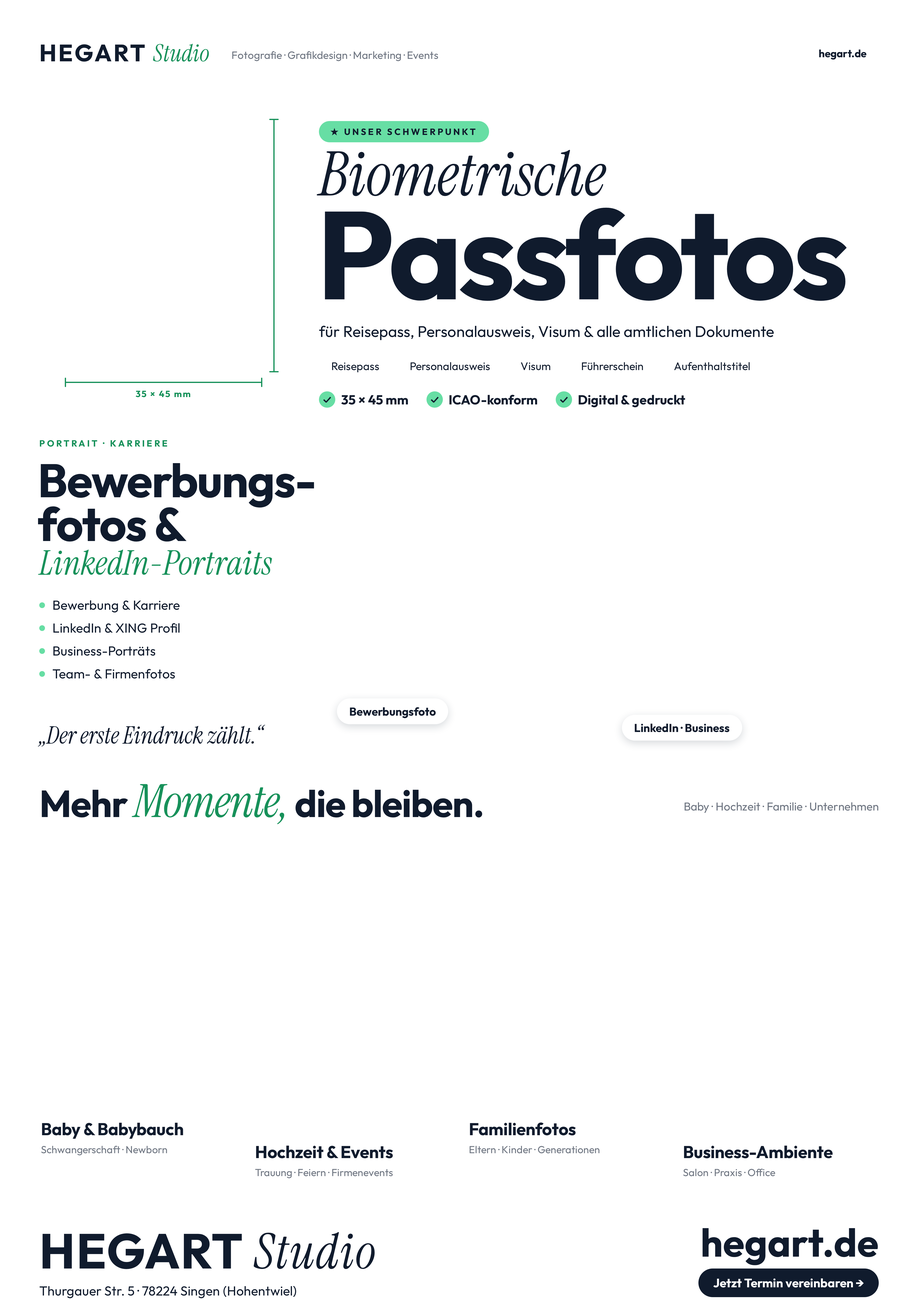
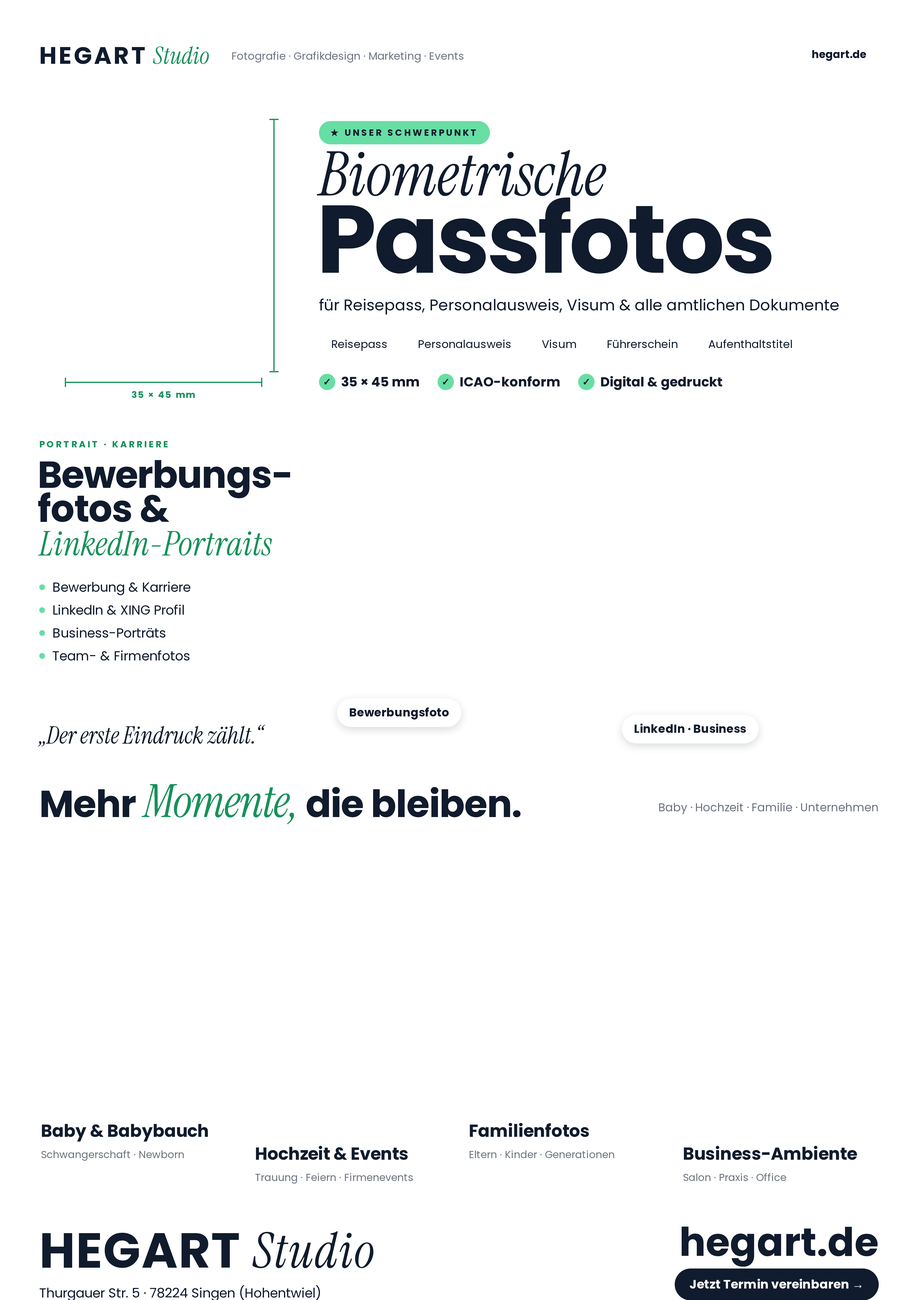
Editable Canva poster: Poppins font, one text box per line, photo mats
Claude-Session: https://claude.ai/code/session_01PXe1ai8QN5UNyAUih2Q6bs

diff --git a/poster/canva-editable.html b/poster/canva-editable.html
@@ -1,7 +1,6 @@
 <!DOCTYPE html>
 <html lang="de"><head><meta charset="utf-8"><title>Hegart Studio Poster A1 editierbar</title>
-<link rel="preconnect" href="https://fonts.googleapis.com">
-<link href="https://fonts.googleapis.com/css2?family=Instrument+Serif:ital@0;1&family=Outfit:wght@400;700&display=swap" rel="stylesheet">
+<link href="https://fonts.googleapis.com/css2?family=Instrument+Serif:ital@0;1&family=Poppins:wght@400;700&display=swap" rel="stylesheet">
 <style>html,body{margin:0}.page{position:relative;width:2245px;height:3179px;overflow:hidden;background:#F8F7F2}</style>
 </head><body>
 <div class="page" data-document-role="page" data-label="Hegart Studio A1">
@@ -17,6 +16,13 @@
 <div data-label="Kachel 4" style="position:absolute;left:1687.8px;top:2128.0px;width:483.2px;height:640.0px;background:#E6EFE4;border-radius:40px"></div>
 <div data-label="Footer" style="position:absolute;left:0.0px;top:2940.0px;width:2245.0px;height:239.0px;background:#67DEA4;border-radius:0px"></div>
 <div data-label="Kreis Footer" style="position:absolute;left:934.8px;top:2939.0px;width:600.0px;height:600.0px;background:#86E6B8;border-radius:50%"></div>
+<div data-label="Rahmen" style="position:absolute;left:151.0px;top:283.0px;width:498.0px;height:635.0px;background:#FFFFFF;border-radius:35px"></div>
+<div data-label="Rahmen" style="position:absolute;left:787.0px;top:1051.0px;width:674.5px;height:758.0px;background:#FFFFFF;border-radius:53px"></div>
+<div data-label="Rahmen" style="position:absolute;left:1483.5px;top:1091.0px;width:674.5px;height:758.0px;background:#FFFFFF;border-radius:53px"></div>
+<div data-label="Rahmen" style="position:absolute;left:87.0px;top:2041.0px;width:501.2px;height:658.0px;background:#FFFFFF;border-radius:49px"></div>
+<div data-label="Rahmen" style="position:absolute;left:610.2px;top:2097.0px;width:501.2px;height:658.0px;background:#FFFFFF;border-radius:49px"></div>
+<div data-label="Rahmen" style="position:absolute;left:1133.5px;top:2041.0px;width:501.2px;height:658.0px;background:#FFFFFF;border-radius:49px"></div>
+<div data-label="Rahmen" style="position:absolute;left:1656.8px;top:2097.0px;width:501.2px;height:658.0px;background:#FFFFFF;border-radius:49px"></div>
 <div data-label="Foto Passfoto" style="position:absolute;left:160.0px;top:292.0px;width:480.0px;height:617.0px;background:#B9B2A9;border-radius:26px"></div>
 <div data-label="Foto Bewerbungsfoto" style="position:absolute;left:796.0px;top:1060.0px;width:656.5px;height:740.0px;background:#B9B2A9;border-radius:44px"></div>
 <div data-label="Foto LinkedIn" style="position:absolute;left:1492.5px;top:1100.0px;width:656.5px;height:740.0px;background:#B9B2A9;border-radius:44px"></div>
@@ -24,74 +30,75 @@
 <div data-label="Foto Hochzeit" style="position:absolute;left:619.2px;top:2106.0px;width:483.2px;height:640.0px;background:#B9B2A9;border-radius:40px"></div>
 <div data-label="Foto Familie" style="position:absolute;left:1142.5px;top:2050.0px;width:483.2px;height:640.0px;background:#B9B2A9;border-radius:40px"></div>
 <div data-label="Foto Business-Ambiente" style="position:absolute;left:1665.8px;top:2106.0px;width:483.2px;height:640.0px;background:#B9B2A9;border-radius:40px"></div>
-<div data-label="Maßlinie" style="position:absolute;left:668.5px;top:292.0px;width:3.0px;height:617.0px;background:#17915A;border-radius:2px"></div>
+<div data-label="" style="position:absolute;left:668.5px;top:292.0px;width:3.0px;height:617.0px;background:#17915A;border-radius:2px"></div>
 <div data-label="" style="position:absolute;left:660.0px;top:290.5px;width:20.0px;height:3.0px;background:#17915A;border-radius:2px"></div>
 <div data-label="" style="position:absolute;left:660.0px;top:907.5px;width:20.0px;height:3.0px;background:#17915A;border-radius:2px"></div>
-<div data-label="Maßlinie" style="position:absolute;left:160.0px;top:933.5px;width:480.0px;height:3.0px;background:#17915A;border-radius:2px"></div>
+<div data-label="" style="position:absolute;left:160.0px;top:933.5px;width:480.0px;height:3.0px;background:#17915A;border-radius:2px"></div>
 <div data-label="" style="position:absolute;left:158.5px;top:925.0px;width:3.0px;height:20.0px;background:#17915A;border-radius:2px"></div>
 <div data-label="" style="position:absolute;left:638.5px;top:925.0px;width:3.0px;height:20.0px;background:#17915A;border-radius:2px"></div>
-<div data-label="Rahmen" style="position:absolute;left:149.0px;top:281.0px;width:502.0px;height:639.0px;border:8px solid #FFFFFF;border-radius:37px;box-sizing:border-box"></div>
-<div data-label="Rahmen" style="position:absolute;left:785.0px;top:1049.0px;width:678.5px;height:762.0px;border:8px solid #FFFFFF;border-radius:55px;box-sizing:border-box"></div>
-<div data-label="Rahmen" style="position:absolute;left:1481.5px;top:1089.0px;width:678.5px;height:762.0px;border:8px solid #FFFFFF;border-radius:55px;box-sizing:border-box"></div>
-<div data-label="Rahmen" style="position:absolute;left:85.0px;top:2039.0px;width:505.2px;height:662.0px;border:8px solid #FFFFFF;border-radius:51px;box-sizing:border-box"></div>
-<div data-label="Rahmen" style="position:absolute;left:608.2px;top:2095.0px;width:505.2px;height:662.0px;border:8px solid #FFFFFF;border-radius:51px;box-sizing:border-box"></div>
-<div data-label="Rahmen" style="position:absolute;left:1131.5px;top:2039.0px;width:505.2px;height:662.0px;border:8px solid #FFFFFF;border-radius:51px;box-sizing:border-box"></div>
-<div data-label="Rahmen" style="position:absolute;left:1654.8px;top:2095.0px;width:505.2px;height:662.0px;border:8px solid #FFFFFF;border-radius:51px;box-sizing:border-box"></div>
-<div data-label="" style="position:absolute;left:1972.0px;top:100.0px;width:177.0px;height:61.0px;background:rgb(255, 255, 255);border-radius:999px"></div>
-<div data-label="" style="position:absolute;left:780.0px;top:296.0px;width:416.0px;height:52.0px;background:rgb(103, 222, 164);border-radius:999px"></div>
-<div data-label="" style="position:absolute;left:780.0px;top:864.0px;width:178.0px;height:62.0px;background:rgb(255, 255, 255);border-radius:999px"></div>
-<div data-label="" style="position:absolute;left:972.0px;top:864.0px;width:257.0px;height:62.0px;background:rgb(255, 255, 255);border-radius:999px"></div>
-<div data-label="" style="position:absolute;left:1243.0px;top:864.0px;width:134.0px;height:62.0px;background:rgb(255, 255, 255);border-radius:999px"></div>
-<div data-label="" style="position:absolute;left:1391.0px;top:864.0px;width:213.0px;height:62.0px;background:rgb(255, 255, 255);border-radius:999px"></div>
-<div data-label="" style="position:absolute;left:1618.0px;top:864.0px;width:247.0px;height:62.0px;background:rgb(255, 255, 255);border-radius:999px"></div>
-<div data-label="" style="position:absolute;left:780.0px;top:957.0px;width:40.0px;height:40.0px;background:rgb(103, 222, 164);border-radius:50%"></div>
-<div data-label="" style="position:absolute;left:1043.0px;top:957.0px;width:40.0px;height:40.0px;background:rgb(103, 222, 164);border-radius:50%"></div>
-<div data-label="" style="position:absolute;left:1359.0px;top:957.0px;width:40.0px;height:40.0px;background:rgb(103, 222, 164);border-radius:50%"></div>
-<div data-label="" style="position:absolute;left:96.0px;top:1472.7px;width:14.0px;height:14.0px;background:rgb(103, 222, 164);border-radius:50%"></div>
-<div data-label="" style="position:absolute;left:96.0px;top:1528.7px;width:14.0px;height:14.0px;background:rgb(103, 222, 164);border-radius:50%"></div>
-<div data-label="" style="position:absolute;left:96.0px;top:1584.7px;width:14.0px;height:14.0px;background:rgb(103, 222, 164);border-radius:50%"></div>
-<div data-label="" style="position:absolute;left:96.0px;top:1640.7px;width:14.0px;height:14.0px;background:rgb(103, 222, 164);border-radius:50%"></div>
-<div data-label="" style="position:absolute;left:824.0px;top:1708.0px;width:272.0px;height:63.0px;background:rgb(255, 255, 255);border-radius:999px"></div>
-<div data-label="" style="position:absolute;left:1520.5px;top:1748.0px;width:294.0px;height:63.0px;background:rgb(255, 255, 255);border-radius:999px"></div>
-<div data-label="" style="position:absolute;left:1708.0px;top:3102.0px;width:441.0px;height:70.0px;background:rgb(16, 27, 45);border-radius:999px"></div>
-<div style="position:absolute;left:96.0px;top:92.0px;width:446.8px;white-space:nowrap;text-align:left;font-family:'Outfit', sans-serif;font-size:16px;font-weight:400;font-style:normal;color:rgb(16, 27, 45);letter-spacing:normal;line-height:normal;margin:0"><span style="font-weight:700;font-size:58px;letter-spacing:0.08em;font-family:'Outfit', sans-serif;font-size:58px;font-weight:700;font-style:normal;color:rgb(16, 27, 45);letter-spacing:4.64px;text-transform:none;line-height:normal">HEGART</span><span style="font-size:58px;margin-left:14px;font-family:'Instrument Serif', serif;font-size:58px;font-weight:400;font-style:italic;color:rgb(23, 145, 90);letter-spacing:normal;text-transform:none;line-height:normal">Studio</span></div>
-<div style="position:absolute;left:566.0px;top:118.0px;width:542.4px;white-space:nowrap;text-align:left;font-family:'Outfit', sans-serif;font-size:26px;font-weight:400;font-style:normal;color:rgb(110, 117, 129);letter-spacing:normal;line-height:normal;margin:0">Fotografie · Grafikdesign · Marketing · Events</div>
-<div style="position:absolute;left:2002.0px;top:114.0px;width:130.0px;white-space:nowrap;text-align:left;font-family:'Outfit', sans-serif;font-size:26px;font-weight:700;font-style:normal;color:rgb(16, 27, 45);letter-spacing:normal;line-height:normal;margin:0">hegart.de</div>
-<div style="position:absolute;left:331.3px;top:949.0px;width:151.7px;white-space:nowrap;text-align:left;font-family:'Outfit', sans-serif;font-size:22px;font-weight:700;font-style:normal;color:rgb(23, 145, 90);letter-spacing:2.64px;line-height:normal;margin:0">35 × 45 mm</div>
-<div style="position:absolute;left:808.0px;top:308.0px;width:387.6px;white-space:nowrap;text-align:left;font-family:'Outfit', sans-serif;font-size:22px;font-weight:700;font-style:normal;color:rgb(16, 27, 45);letter-spacing:4.84px;line-height:normal;margin:0">★ UNSER SCHWERPUNKT</div>
-<div style="position:absolute;left:780.0px;top:352.0px;width:749.1px;white-space:nowrap;text-align:left;font-family:'Instrument Serif', serif;font-size:150px;font-weight:400;font-style:italic;color:rgb(16, 27, 45);letter-spacing:normal;line-height:150px;margin:0">Biometrische</div>
-<div style="position:absolute;left:774.0px;top:468.0px;width:1376.5px;white-space:nowrap;text-align:left;font-family:'Outfit', sans-serif;font-size:304.035px;font-weight:700;font-style:normal;color:rgb(16, 27, 45);letter-spacing:-9.12106px;line-height:304.035px;margin:0">Passfotos</div>
-<div style="position:absolute;left:780.0px;top:786.0px;width:1185.8px;white-space:nowrap;text-align:left;font-family:'Outfit', sans-serif;font-size:38px;font-weight:400;font-style:normal;color:rgb(16, 27, 45);letter-spacing:normal;line-height:normal;margin:0">für Reisepass, Personalausweis, Visum &amp; alle amtlichen Dokumente</div>
-<div style="position:absolute;left:810.0px;top:878.0px;width:131.1px;white-space:nowrap;text-align:left;font-family:'Outfit', sans-serif;font-size:27px;font-weight:400;font-style:normal;color:rgb(16, 27, 45);letter-spacing:normal;line-height:normal;margin:0">Reisepass</div>
-<div style="position:absolute;left:1002.0px;top:878.0px;width:214.8px;white-space:nowrap;text-align:left;font-family:'Outfit', sans-serif;font-size:27px;font-weight:400;font-style:normal;color:rgb(16, 27, 45);letter-spacing:normal;line-height:normal;margin:0">Personalausweis</div>
-<div style="position:absolute;left:1273.0px;top:878.0px;width:84.4px;white-space:nowrap;text-align:left;font-family:'Outfit', sans-serif;font-size:27px;font-weight:400;font-style:normal;color:rgb(16, 27, 45);letter-spacing:normal;line-height:normal;margin:0">Visum</div>
-<div style="position:absolute;left:1421.0px;top:878.0px;width:168.2px;white-space:nowrap;text-align:left;font-family:'Outfit', sans-serif;font-size:27px;font-weight:400;font-style:normal;color:rgb(16, 27, 45);letter-spacing:normal;line-height:normal;margin:0">Führerschein</div>
-<div style="position:absolute;left:1648.0px;top:878.0px;width:204.2px;white-space:nowrap;text-align:left;font-family:'Outfit', sans-serif;font-size:27px;font-weight:400;font-style:normal;color:rgb(16, 27, 45);letter-spacing:normal;line-height:normal;margin:0">Aufenthaltstitel</div>
-<div style="position:absolute;left:790.0px;top:962.0px;width:27.2px;white-space:nowrap;text-align:left;font-family:'Outfit', sans-serif;font-size:24px;font-weight:700;font-style:normal;color:rgb(16, 27, 45);letter-spacing:normal;line-height:normal;margin:0">✓</div>
-<div style="position:absolute;left:834.0px;top:957.0px;width:180.9px;white-space:nowrap;text-align:left;font-family:'Outfit', sans-serif;font-size:32px;font-weight:700;font-style:normal;color:rgb(16, 27, 45);letter-spacing:normal;line-height:normal;margin:0">35 × 45 mm</div>
-<div style="position:absolute;left:1053.0px;top:962.0px;width:27.2px;white-space:nowrap;text-align:left;font-family:'Outfit', sans-serif;font-size:24px;font-weight:700;font-style:normal;color:rgb(16, 27, 45);letter-spacing:normal;line-height:normal;margin:0">✓</div>
-<div style="position:absolute;left:1097.0px;top:957.0px;width:237.1px;white-space:nowrap;text-align:left;font-family:'Outfit', sans-serif;font-size:32px;font-weight:700;font-style:normal;color:rgb(16, 27, 45);letter-spacing:normal;line-height:normal;margin:0">ICAO-konform</div>
-<div style="position:absolute;left:1369.0px;top:962.0px;width:27.2px;white-space:nowrap;text-align:left;font-family:'Outfit', sans-serif;font-size:24px;font-weight:700;font-style:normal;color:rgb(16, 27, 45);letter-spacing:normal;line-height:normal;margin:0">✓</div>
-<div style="position:absolute;left:1413.0px;top:957.0px;width:284.8px;white-space:nowrap;text-align:left;font-family:'Outfit', sans-serif;font-size:32px;font-weight:700;font-style:normal;color:rgb(16, 27, 45);letter-spacing:normal;line-height:normal;margin:0">Digital &amp; gedruckt</div>
-<div style="position:absolute;left:96.0px;top:1070.0px;width:344.1px;white-space:nowrap;text-align:left;font-family:'Outfit', sans-serif;font-size:22px;font-weight:700;font-style:normal;color:rgb(23, 145, 90);letter-spacing:4.84px;line-height:normal;margin:0">PORTRAIT · KARRIERE</div>
-<div style="position:absolute;left:92.0px;top:1116.0px;width:726.5px;white-space:nowrap;text-align:left;font-family:'Outfit', sans-serif;font-size:114.998px;font-weight:700;font-style:normal;color:rgb(16, 27, 45);letter-spacing:-2.29996px;line-height:114.998px;margin:0">Bewerbungs-</div>
-<div style="position:absolute;left:92.0px;top:1223.0px;width:389.6px;white-space:nowrap;text-align:left;font-family:'Outfit', sans-serif;font-size:114.998px;font-weight:700;font-style:normal;color:rgb(16, 27, 45);letter-spacing:-2.29996px;line-height:114.998px;margin:0">fotos &amp;</div>
-<div style="position:absolute;left:96.0px;top:1336.0px;width:609.1px;white-space:nowrap;text-align:left;font-family:'Instrument Serif', serif;font-size:82.671px;font-weight:400;font-style:italic;color:rgb(23, 145, 90);letter-spacing:normal;line-height:82.671px;margin:0">LinkedIn-Portraits</div>
-<div style="position:absolute;left:128.0px;top:1458.7px;width:336.7px;white-space:nowrap;text-align:left;font-family:'Outfit', sans-serif;font-size:32px;font-weight:400;font-style:normal;color:rgb(16, 27, 45);letter-spacing:normal;line-height:normal;margin:0">Bewerbung &amp; Karriere</div>
-<div style="position:absolute;left:128.0px;top:1514.7px;width:337.8px;white-space:nowrap;text-align:left;font-family:'Outfit', sans-serif;font-size:32px;font-weight:400;font-style:normal;color:rgb(16, 27, 45);letter-spacing:normal;line-height:normal;margin:0">LinkedIn &amp; XING Profil</div>
-<div style="position:absolute;left:128.0px;top:1570.7px;width:274.2px;white-space:nowrap;text-align:left;font-family:'Outfit', sans-serif;font-size:32px;font-weight:400;font-style:normal;color:rgb(16, 27, 45);letter-spacing:normal;line-height:normal;margin:0">Business-Porträts</div>
-<div style="position:absolute;left:128.0px;top:1626.7px;width:325.1px;white-space:nowrap;text-align:left;font-family:'Outfit', sans-serif;font-size:32px;font-weight:400;font-style:normal;color:rgb(16, 27, 45);letter-spacing:normal;line-height:normal;margin:0">Team- &amp; Firmenfotos</div>
-<div style="position:absolute;left:96.0px;top:1770.0px;width:587.9px;white-space:nowrap;text-align:left;font-family:'Instrument Serif', serif;font-size:58px;font-weight:400;font-style:italic;color:rgb(16, 27, 45);letter-spacing:normal;line-height:58px;margin:0">„Der erste Eindruck zählt.“</div>
-<div style="position:absolute;left:854.0px;top:1722.0px;width:230.7px;white-space:nowrap;text-align:left;font-family:'Outfit', sans-serif;font-size:28px;font-weight:700;font-style:normal;color:rgb(16, 27, 45);letter-spacing:normal;line-height:normal;margin:0">Bewerbungsfoto</div>
-<div style="position:absolute;left:1550.5px;top:1762.0px;width:254.0px;white-space:nowrap;text-align:left;font-family:'Outfit', sans-serif;font-size:28px;font-weight:700;font-style:normal;color:rgb(16, 27, 45);letter-spacing:normal;line-height:normal;margin:0">LinkedIn · Business</div>
-<div style="position:absolute;left:96.0px;top:1904.0px;width:1158.4px;white-space:nowrap;text-align:left;font-family:'Outfit', sans-serif;font-size:92px;font-weight:700;font-style:normal;color:rgb(16, 27, 45);letter-spacing:-1.84px;line-height:92px;margin:0">Mehr <span style="font-size:112px;font-family:'Instrument Serif', serif;font-size:112px;font-weight:400;font-style:italic;color:rgb(23, 145, 90);letter-spacing:-1.84px;text-transform:none;line-height:92px">Momente,</span> die bleiben.</div>
-<div style="position:absolute;left:1637.4px;top:1954.0px;width:511.6px;white-space:nowrap;text-align:right;font-family:'Outfit', sans-serif;font-size:28px;font-weight:400;font-style:normal;color:rgb(110, 117, 129);letter-spacing:normal;line-height:normal;margin:0">Baby · Hochzeit · Familie · Unternehmen</div>
-<div style="position:absolute;left:100.0px;top:2734.0px;width:376.2px;white-space:nowrap;text-align:left;font-family:'Outfit', sans-serif;font-size:16px;font-weight:400;font-style:normal;color:rgb(16, 27, 45);letter-spacing:normal;line-height:normal;margin:0"><div style="font-weight:700;font-size:42px;letter-spacing:-0.01em;font-family:'Outfit', sans-serif;font-size:42px;font-weight:700;font-style:normal;color:rgb(16, 27, 45);letter-spacing:-0.42px;text-transform:none;line-height:normal">Baby &amp; Babybauch</div><div style="font-size:25px;margin-top:8px;font-family:'Outfit', sans-serif;font-size:25px;font-weight:400;font-style:normal;color:rgb(110, 117, 129);letter-spacing:normal;text-transform:none;line-height:normal">Schwangerschaft · Newborn</div></div>
-<div style="position:absolute;left:623.2px;top:2790.0px;width:364.3px;white-space:nowrap;text-align:left;font-family:'Outfit', sans-serif;font-size:16px;font-weight:400;font-style:normal;color:rgb(16, 27, 45);letter-spacing:normal;line-height:normal;margin:0"><div style="font-weight:700;font-size:42px;letter-spacing:-0.01em;font-family:'Outfit', sans-serif;font-size:42px;font-weight:700;font-style:normal;color:rgb(16, 27, 45);letter-spacing:-0.42px;text-transform:none;line-height:normal">Hochzeit &amp; Events</div><div style="font-size:25px;margin-top:8px;font-family:'Outfit', sans-serif;font-size:25px;font-weight:400;font-style:normal;color:rgb(110, 117, 129);letter-spacing:normal;text-transform:none;line-height:normal">Trauung · Feiern · Firmenevents</div></div>
-<div style="position:absolute;left:1146.5px;top:2734.0px;width:346.3px;white-space:nowrap;text-align:left;font-family:'Outfit', sans-serif;font-size:16px;font-weight:400;font-style:normal;color:rgb(16, 27, 45);letter-spacing:normal;line-height:normal;margin:0"><div style="font-weight:700;font-size:42px;letter-spacing:-0.01em;font-family:'Outfit', sans-serif;font-size:42px;font-weight:700;font-style:normal;color:rgb(16, 27, 45);letter-spacing:-0.42px;text-transform:none;line-height:normal">Familienfotos</div><div style="font-size:25px;margin-top:8px;font-family:'Outfit', sans-serif;font-size:25px;font-weight:400;font-style:normal;color:rgb(110, 117, 129);letter-spacing:normal;text-transform:none;line-height:normal">Eltern · Kinder · Generationen</div></div>
-<div style="position:absolute;left:1669.8px;top:2790.0px;width:394.9px;white-space:nowrap;text-align:left;font-family:'Outfit', sans-serif;font-size:16px;font-weight:400;font-style:normal;color:rgb(16, 27, 45);letter-spacing:normal;line-height:normal;margin:0"><div style="font-weight:700;font-size:42px;letter-spacing:-0.01em;font-family:'Outfit', sans-serif;font-size:42px;font-weight:700;font-style:normal;color:rgb(16, 27, 45);letter-spacing:-0.42px;text-transform:none;line-height:normal">Business-Ambiente</div><div style="font-size:25px;margin-top:8px;font-family:'Outfit', sans-serif;font-size:25px;font-weight:400;font-style:normal;color:rgb(110, 117, 129);letter-spacing:normal;text-transform:none;line-height:normal">Salon · Praxis · Office</div></div>
-<div style="position:absolute;left:96.0px;top:2998.0px;width:880.7px;white-space:nowrap;text-align:left;font-family:'Outfit', sans-serif;font-size:120px;font-weight:700;font-style:normal;color:rgb(16, 27, 45);letter-spacing:2.4px;line-height:120px;margin:0">HEGART <span style="font-weight:400;font-family:'Instrument Serif', serif;font-size:120px;font-weight:400;font-style:italic;color:rgb(16, 27, 45);letter-spacing:2.4px;text-transform:none;line-height:120px">Studio</span></div>
-<div style="position:absolute;left:96.0px;top:3136.0px;width:673.8px;white-space:nowrap;text-align:left;font-family:'Outfit', sans-serif;font-size:32px;font-weight:400;font-style:normal;color:rgb(16, 27, 45);letter-spacing:normal;line-height:normal;margin:0">Thurgauer Str. 5 · 78224 Singen (Hohentwiel)</div>
-<div style="position:absolute;left:1680.8px;top:2990.0px;width:468.2px;white-space:nowrap;text-align:right;font-family:'Outfit', sans-serif;font-size:96px;font-weight:700;font-style:normal;color:rgb(16, 27, 45);letter-spacing:normal;line-height:96px;margin:0">hegart.de</div>
-<div style="position:absolute;left:1744.0px;top:3118.0px;width:397.1px;white-space:nowrap;text-align:left;font-family:'Outfit', sans-serif;font-size:30px;font-weight:700;font-style:normal;color:rgb(255, 255, 255);letter-spacing:normal;line-height:normal;margin:0">Jetzt Termin vereinbaren →</div>
+<div data-label="" style="position:absolute;left:1955.0px;top:100.0px;width:194.0px;height:67.0px;background:rgb(255, 255, 255);border-radius:999px"></div>
+<div data-label="" style="position:absolute;left:780.0px;top:296.0px;width:418.0px;height:57.0px;background:rgb(103, 222, 164);border-radius:999px"></div>
+<div data-label="" style="position:absolute;left:780.0px;top:807.9px;width:198.0px;height:68.0px;background:rgb(255, 255, 255);border-radius:999px"></div>
+<div data-label="" style="position:absolute;left:992.0px;top:807.9px;width:289.0px;height:68.0px;background:rgb(255, 255, 255);border-radius:999px"></div>
+<div data-label="" style="position:absolute;left:1295.0px;top:807.9px;width:145.0px;height:68.0px;background:rgb(255, 255, 255);border-radius:999px"></div>
+<div data-label="" style="position:absolute;left:1454.0px;top:807.9px;width:234.0px;height:68.0px;background:rgb(255, 255, 255);border-radius:999px"></div>
+<div data-label="" style="position:absolute;left:1702.0px;top:807.9px;width:267.0px;height:68.0px;background:rgb(255, 255, 255);border-radius:999px"></div>
+<div data-label="" style="position:absolute;left:780.0px;top:913.9px;width:40.0px;height:40.0px;background:rgb(103, 222, 164);border-radius:50%"></div>
+<div data-label="" style="position:absolute;left:1070.0px;top:913.9px;width:40.0px;height:40.0px;background:rgb(103, 222, 164);border-radius:50%"></div>
+<div data-label="" style="position:absolute;left:1414.0px;top:913.9px;width:40.0px;height:40.0px;background:rgb(103, 222, 164);border-radius:50%"></div>
+<div data-label="" style="position:absolute;left:96.0px;top:1428.5px;width:14.0px;height:14.0px;background:rgb(103, 222, 164);border-radius:50%"></div>
+<div data-label="" style="position:absolute;left:96.0px;top:1484.5px;width:14.0px;height:14.0px;background:rgb(103, 222, 164);border-radius:50%"></div>
+<div data-label="" style="position:absolute;left:96.0px;top:1540.5px;width:14.0px;height:14.0px;background:rgb(103, 222, 164);border-radius:50%"></div>
+<div data-label="" style="position:absolute;left:96.0px;top:1596.5px;width:14.0px;height:14.0px;background:rgb(103, 222, 164);border-radius:50%"></div>
+<div data-label="" style="position:absolute;left:824.0px;top:1708.0px;width:304.0px;height:70.0px;background:rgb(255, 255, 255);border-radius:999px"></div>
+<div data-label="" style="position:absolute;left:1520.5px;top:1748.0px;width:334.0px;height:70.0px;background:rgb(255, 255, 255);border-radius:999px"></div>
+<div data-label="" style="position:absolute;left:1650.0px;top:3102.0px;width:499.0px;height:78.0px;background:rgb(16, 27, 45);border-radius:999px"></div>
+<div style="position:absolute;left:96.0px;top:95.0px;width:293.0px;white-space:nowrap;font-family:'Poppins', sans-serif;font-size:58px;font-weight:700;font-style:normal;color:rgb(16, 27, 45);letter-spacing:4.64px;line-height:81.0px;margin:0">HEGART</div>
+<div style="position:absolute;left:373.8px;top:99.0px;width:157.0px;white-space:nowrap;font-family:'Instrument Serif', serif;font-size:58px;font-weight:400;font-style:italic;color:rgb(23, 145, 90);letter-spacing:normal;line-height:75.0px;margin:0">Studio</div>
+<div style="position:absolute;left:566.0px;top:119.0px;width:622.5px;white-space:nowrap;font-family:'Poppins', sans-serif;font-size:26px;font-weight:400;font-style:normal;color:rgb(110, 117, 129);letter-spacing:normal;line-height:36.0px;margin:0">Fotografie · Grafikdesign · Marketing · Events</div>
+<div style="position:absolute;left:1985.0px;top:115.0px;width:152.7px;white-space:nowrap;font-family:'Poppins', sans-serif;font-size:26px;font-weight:700;font-style:normal;color:rgb(16, 27, 45);letter-spacing:normal;line-height:36.0px;margin:0">hegart.de</div>
+<div style="position:absolute;left:321.3px;top:950.0px;width:178.0px;white-space:nowrap;font-family:'Poppins', sans-serif;font-size:22px;font-weight:700;font-style:normal;color:rgb(23, 145, 90);letter-spacing:2.64px;line-height:31.0px;margin:0">35 × 45 mm</div>
+<div style="position:absolute;left:808.0px;top:309.0px;width:398.9px;white-space:nowrap;font-family:'Poppins', sans-serif;font-size:22px;font-weight:700;font-style:normal;color:rgb(16, 27, 45);letter-spacing:4.84px;line-height:31.0px;margin:0">★ UNSER SCHWERPUNKT</div>
+<div style="position:absolute;left:780.0px;top:329.0px;width:765.1px;white-space:nowrap;font-family:'Instrument Serif', serif;font-size:150px;font-weight:400;font-style:italic;color:rgb(16, 27, 45);letter-spacing:normal;line-height:196.0px;margin:0">Biometrische</div>
+<div style="position:absolute;left:774.0px;top:420.0px;width:1212.8px;white-space:nowrap;font-family:'Poppins', sans-serif;font-size:234.94px;font-weight:700;font-style:normal;color:rgb(16, 27, 45);letter-spacing:-7.0482px;line-height:329.0px;margin:0">Passfotos</div>
+<div style="position:absolute;left:780.0px;top:718.9px;width:1382.8px;white-space:nowrap;font-family:'Poppins', sans-serif;font-size:38px;font-weight:400;font-style:normal;color:rgb(16, 27, 45);letter-spacing:normal;line-height:53.0px;margin:0">für Reisepass, Personalausweis, Visum &amp; alle amtlichen Dokumente</div>
+<div style="position:absolute;left:810.0px;top:822.9px;width:157.0px;white-space:nowrap;font-family:'Poppins', sans-serif;font-size:27px;font-weight:400;font-style:normal;color:rgb(16, 27, 45);letter-spacing:normal;line-height:37.0px;margin:0">Reisepass</div>
+<div style="position:absolute;left:1022.0px;top:822.9px;width:255.3px;white-space:nowrap;font-family:'Poppins', sans-serif;font-size:27px;font-weight:400;font-style:normal;color:rgb(16, 27, 45);letter-spacing:normal;line-height:37.0px;margin:0">Personalausweis</div>
+<div style="position:absolute;left:1325.0px;top:822.9px;width:99.8px;white-space:nowrap;font-family:'Poppins', sans-serif;font-size:27px;font-weight:400;font-style:normal;color:rgb(16, 27, 45);letter-spacing:normal;line-height:37.0px;margin:0">Visum</div>
+<div style="position:absolute;left:1484.0px;top:822.9px;width:195.9px;white-space:nowrap;font-family:'Poppins', sans-serif;font-size:27px;font-weight:400;font-style:normal;color:rgb(16, 27, 45);letter-spacing:normal;line-height:37.0px;margin:0">Führerschein</div>
+<div style="position:absolute;left:1732.0px;top:822.9px;width:231.6px;white-space:nowrap;font-family:'Poppins', sans-serif;font-size:27px;font-weight:400;font-style:normal;color:rgb(16, 27, 45);letter-spacing:normal;line-height:37.0px;margin:0">Aufenthaltstitel</div>
+<div style="position:absolute;left:790.0px;top:917.4px;width:29.6px;white-space:nowrap;font-family:'Poppins', sans-serif;font-size:24px;font-weight:700;font-style:normal;color:rgb(16, 27, 45);letter-spacing:normal;line-height:33.0px;margin:0">✓</div>
+<div style="position:absolute;left:834.0px;top:910.9px;width:215.4px;white-space:nowrap;font-family:'Poppins', sans-serif;font-size:32px;font-weight:700;font-style:normal;color:rgb(16, 27, 45);letter-spacing:normal;line-height:45.0px;margin:0">35 × 45 mm</div>
+<div style="position:absolute;left:1080.0px;top:917.4px;width:29.6px;white-space:nowrap;font-family:'Poppins', sans-serif;font-size:24px;font-weight:700;font-style:normal;color:rgb(16, 27, 45);letter-spacing:normal;line-height:33.0px;margin:0">✓</div>
+<div style="position:absolute;left:1124.0px;top:910.9px;width:273.7px;white-space:nowrap;font-family:'Poppins', sans-serif;font-size:32px;font-weight:700;font-style:normal;color:rgb(16, 27, 45);letter-spacing:normal;line-height:45.0px;margin:0">ICAO-konform</div>
+<div style="position:absolute;left:1424.0px;top:917.4px;width:29.6px;white-space:nowrap;font-family:'Poppins', sans-serif;font-size:24px;font-weight:700;font-style:normal;color:rgb(16, 27, 45);letter-spacing:normal;line-height:33.0px;margin:0">✓</div>
+<div style="position:absolute;left:1468.0px;top:910.9px;width:330.9px;white-space:nowrap;font-family:'Poppins', sans-serif;font-size:32px;font-weight:700;font-style:normal;color:rgb(16, 27, 45);letter-spacing:normal;line-height:45.0px;margin:0">Digital &amp; gedruckt</div>
+<div style="position:absolute;left:96.0px;top:1071.0px;width:353.6px;white-space:nowrap;font-family:'Poppins', sans-serif;font-size:22px;font-weight:700;font-style:normal;color:rgb(23, 145, 90);letter-spacing:4.84px;line-height:31.0px;margin:0">PORTRAIT · KARRIERE</div>
+<div style="position:absolute;left:92.0px;top:1097.0px;width:681.8px;white-space:nowrap;font-family:'Poppins', sans-serif;font-size:91.4444px;font-weight:700;font-style:normal;color:rgb(16, 27, 45);letter-spacing:-1.82889px;line-height:128.0px;margin:0">Bewerbungs-</div>
+<div style="position:absolute;left:92.0px;top:1180.4px;width:353.8px;white-space:nowrap;font-family:'Poppins', sans-serif;font-size:91.4444px;font-weight:700;font-style:normal;color:rgb(16, 27, 45);letter-spacing:-1.82889px;line-height:128.0px;margin:0">fotos &amp;</div>
+<div style="position:absolute;left:96.0px;top:1275.9px;width:622.5px;white-space:nowrap;font-family:'Instrument Serif', serif;font-size:82.671px;font-weight:400;font-style:italic;color:rgb(23, 145, 90);letter-spacing:normal;line-height:108.0px;margin:0">LinkedIn-Portraits</div>
+<div style="position:absolute;left:128.0px;top:1412.5px;width:373.0px;white-space:nowrap;font-family:'Poppins', sans-serif;font-size:32px;font-weight:400;font-style:normal;color:rgb(16, 27, 45);letter-spacing:normal;line-height:45.0px;margin:0">Bewerbung &amp; Karriere</div>
+<div style="position:absolute;left:128.0px;top:1468.5px;width:356.8px;white-space:nowrap;font-family:'Poppins', sans-serif;font-size:32px;font-weight:400;font-style:normal;color:rgb(16, 27, 45);letter-spacing:normal;line-height:45.0px;margin:0">LinkedIn &amp; XING Profil</div>
+<div style="position:absolute;left:128.0px;top:1524.5px;width:308.2px;white-space:nowrap;font-family:'Poppins', sans-serif;font-size:32px;font-weight:400;font-style:normal;color:rgb(16, 27, 45);letter-spacing:normal;line-height:45.0px;margin:0">Business-Porträts</div>
+<div style="position:absolute;left:128.0px;top:1580.5px;width:372.0px;white-space:nowrap;font-family:'Poppins', sans-serif;font-size:32px;font-weight:400;font-style:normal;color:rgb(16, 27, 45);letter-spacing:normal;line-height:45.0px;margin:0">Team- &amp; Firmenfotos</div>
+<div style="position:absolute;left:96.0px;top:1761.0px;width:600.9px;white-space:nowrap;font-family:'Instrument Serif', serif;font-size:58px;font-weight:400;font-style:italic;color:rgb(16, 27, 45);letter-spacing:normal;line-height:75.0px;margin:0">„Der erste Eindruck zählt.“</div>
+<div style="position:absolute;left:854.0px;top:1723.0px;width:271.5px;white-space:nowrap;font-family:'Poppins', sans-serif;font-size:28px;font-weight:700;font-style:normal;color:rgb(16, 27, 45);letter-spacing:normal;line-height:39.0px;margin:0">Bewerbungsfoto</div>
+<div style="position:absolute;left:1550.5px;top:1763.0px;width:303.9px;white-space:nowrap;font-family:'Poppins', sans-serif;font-size:28px;font-weight:700;font-style:normal;color:rgb(16, 27, 45);letter-spacing:normal;line-height:39.0px;margin:0">LinkedIn · Business</div>
+<div style="position:absolute;left:96.0px;top:1901.0px;width:263.6px;white-space:nowrap;font-family:'Poppins', sans-serif;font-size:92px;font-weight:700;font-style:normal;color:rgb(16, 27, 45);letter-spacing:-1.84px;line-height:129.0px;margin:0">Mehr</div>
+<div style="position:absolute;left:350.8px;top:1887.0px;width:416.5px;white-space:nowrap;font-family:'Instrument Serif', serif;font-size:112px;font-weight:400;font-style:italic;color:rgb(23, 145, 90);letter-spacing:-1.84px;line-height:146.0px;margin:0">Momente,</div>
+<div style="position:absolute;left:747.2px;top:1901.0px;width:579.3px;white-space:nowrap;font-family:'Poppins', sans-serif;font-size:92px;font-weight:700;font-style:normal;color:rgb(16, 27, 45);letter-spacing:-1.84px;line-height:129.0px;margin:0">die bleiben.</div>
+<div style="position:absolute;left:1610.0px;top:1955.0px;width:590.1px;white-space:nowrap;font-family:'Poppins', sans-serif;font-size:28px;font-weight:400;font-style:normal;color:rgb(110, 117, 129);letter-spacing:normal;line-height:39.0px;margin:0">Baby · Hochzeit · Familie · Unternehmen</div>
+<div style="position:absolute;left:100.0px;top:2736.0px;width:452.2px;white-space:nowrap;font-family:'Poppins', sans-serif;font-size:42px;font-weight:700;font-style:normal;color:rgb(16, 27, 45);letter-spacing:-0.42px;line-height:59.0px;margin:0">Baby &amp; Babybauch</div>
+<div style="position:absolute;left:100.0px;top:2806.0px;width:387.1px;white-space:nowrap;font-family:'Poppins', sans-serif;font-size:25px;font-weight:400;font-style:normal;color:rgb(110, 117, 129);letter-spacing:normal;line-height:35.0px;margin:0">Schwangerschaft · Newborn</div>
+<div style="position:absolute;left:623.2px;top:2792.0px;width:413.9px;white-space:nowrap;font-family:'Poppins', sans-serif;font-size:42px;font-weight:700;font-style:normal;color:rgb(16, 27, 45);letter-spacing:-0.42px;line-height:59.0px;margin:0">Hochzeit &amp; Events</div>
+<div style="position:absolute;left:623.2px;top:2862.0px;width:426.0px;white-space:nowrap;font-family:'Poppins', sans-serif;font-size:25px;font-weight:400;font-style:normal;color:rgb(110, 117, 129);letter-spacing:normal;line-height:35.0px;margin:0">Trauung · Feiern · Firmenevents</div>
+<div style="position:absolute;left:1146.5px;top:2736.0px;width:327.2px;white-space:nowrap;font-family:'Poppins', sans-serif;font-size:42px;font-weight:700;font-style:normal;color:rgb(16, 27, 45);letter-spacing:-0.42px;line-height:59.0px;margin:0">Familienfotos</div>
+<div style="position:absolute;left:1146.5px;top:2806.0px;width:393.6px;white-space:nowrap;font-family:'Poppins', sans-serif;font-size:25px;font-weight:400;font-style:normal;color:rgb(110, 117, 129);letter-spacing:normal;line-height:35.0px;margin:0">Eltern · Kinder · Generationen</div>
+<div style="position:absolute;left:1669.8px;top:2792.0px;width:467.9px;white-space:nowrap;font-family:'Poppins', sans-serif;font-size:42px;font-weight:700;font-style:normal;color:rgb(16, 27, 45);letter-spacing:-0.42px;line-height:59.0px;margin:0">Business-Ambiente</div>
+<div style="position:absolute;left:1669.8px;top:2862.0px;width:281.2px;white-space:nowrap;font-family:'Poppins', sans-serif;font-size:25px;font-weight:400;font-style:normal;color:rgb(110, 117, 129);letter-spacing:normal;line-height:35.0px;margin:0">Salon · Praxis · Office</div>
+<div style="position:absolute;left:96.0px;top:2974.0px;width:540.9px;white-space:nowrap;font-family:'Poppins', sans-serif;font-size:120px;font-weight:700;font-style:normal;color:rgb(16, 27, 45);letter-spacing:2.4px;line-height:168.0px;margin:0">HEGART</div>
+<div style="position:absolute;left:616.8px;top:2981.0px;width:333.5px;white-space:nowrap;font-family:'Instrument Serif', serif;font-size:120px;font-weight:400;font-style:italic;color:rgb(16, 27, 45);letter-spacing:2.4px;line-height:156.0px;margin:0">Studio</div>
+<div style="position:absolute;left:96.0px;top:3139.0px;width:752.1px;white-space:nowrap;font-family:'Poppins', sans-serif;font-size:32px;font-weight:400;font-style:normal;color:rgb(16, 27, 45);letter-spacing:normal;line-height:45.0px;margin:0">Thurgauer Str. 5 · 78224 Singen (Hohentwiel)</div>
+<div style="position:absolute;left:1661.0px;top:2970.0px;width:535.0px;white-space:nowrap;font-family:'Poppins', sans-serif;font-size:96px;font-weight:700;font-style:normal;color:rgb(16, 27, 45);letter-spacing:normal;line-height:135.0px;margin:0">hegart.de</div>
+<div style="position:absolute;left:1686.0px;top:3119.0px;width:469.2px;white-space:nowrap;font-family:'Poppins', sans-serif;font-size:30px;font-weight:700;font-style:normal;color:rgb(255, 255, 255);letter-spacing:normal;line-height:43.0px;margin:0">Jetzt Termin vereinbaren →</div>
 </div></body></html>

diff --git a/poster/build/export-editable.js b/poster/build/export-editable.js
@@ -10,7 +10,7 @@ const fs = require('fs');
   await p.evaluate(() => document.fonts.ready);
   const items = await p.evaluate(() => {
     const out = [];
-    const fam = f => /Serif/.test(f) ? "'Instrument Serif', serif" : "'Outfit', sans-serif";
+    const fam = f => /Serif/.test(f) ? "'Instrument Serif', serif" : "'Poppins', sans-serif";
     const hasDeco = cs => (cs.backgroundColor !== 'rgba(0, 0, 0, 0)' && cs.backgroundColor !== 'transparent') || parseFloat(cs.borderTopWidth) > 0;
     const textStyle = cs => ({
       fontFamily: fam(cs.fontFamily), fontSize: cs.fontSize, fontWeight: cs.fontWeight, fontStyle: cs.fontStyle,
@@ -29,15 +29,6 @@ const fs = require('fs');
     document.querySelectorAll('.t').forEach(t => {
       const decos = [...t.querySelectorAll('*')].filter(e => hasDeco(getComputedStyle(e)));
       const alignRight = t.style.right !== '';
-      if (!decos.length) {
-        const r = t.getBoundingClientRect(), cs = getComputedStyle(t);
-        const clone = t.cloneNode(true); document.body.appendChild(clone); clone.style.cssText = t.style.cssText;
-        inlineStyles(clone); const html = clone.innerHTML; clone.remove();
-        // captions etc. keep their inner structure (runs, line breaks) in one text box
-        const c2 = t.cloneNode(true); inlineStyles(t); const inner = t.innerHTML;
-        pushText(inner, r, cs, alignRight ? 'right' : 'left');
-        return;
-      }
       decos.forEach(d => {
         const r = d.getBoundingClientRect(), cs = getComputedStyle(d);
         out.push({ kind: 'box', x: r.left, y: r.top, w: r.width, h: r.height, bg: cs.backgroundColor,
@@ -48,7 +39,7 @@ const fs = require('fs');
       const walker = document.createTreeWalker(t, NodeFilter.SHOW_TEXT);
       let n; while ((n = walker.nextNode())) {
         if (!n.textContent.trim()) continue;
-        const range = document.createRange(); range.selectNodeContents(n);
+        const tc = n.textContent, lead = tc.length - tc.trimStart().length, trail = tc.length - tc.trimEnd().length; const range = document.createRange(); range.setStart(n, lead); range.setEnd(n, tc.length - trail);
         const r = range.getBoundingClientRect();
         pushText(n.textContent.trim().replace(/&/g, '&amp;'), r, getComputedStyle(n.parentElement), 'left');
       }

diff --git a/poster/build/poster.html b/poster/build/poster.html
@@ -4,8 +4,8 @@
 <meta charset="utf-8">
 <title>Hegart Studio — A1 Poster</title>
 <style>
-  @font-face { font-family: "Outfit"; src: url(fonts/Outfit-Regular.ttf); font-weight: 400; }
-  @font-face { font-family: "Outfit"; src: url(fonts/Outfit-Bold.ttf); font-weight: 700; }
+  @font-face { font-family: "Outfit"; src: url(fonts/Poppins-Regular.woff2); font-weight: 400; }
+  @font-face { font-family: "Outfit"; src: url(fonts/Poppins-Bold.woff2); font-weight: 700; }
   @font-face { font-family: "Serif"; src: url(fonts/InstrumentSerif-Regular.ttf); font-style: normal; }
   @font-face { font-family: "Serif"; src: url(fonts/InstrumentSerif-Italic.ttf); font-style: italic; }
   html, body { margin: 0; padding: 0; background: transparent; }
@@ -23,6 +23,8 @@
 <body>
 <div id="page"></div>
 <script>
+(async () => {
+await Promise.all(["400 40px Outfit","700 40px Outfit","italic 40px Serif","40px Serif"].map(f => document.fonts.load(f)));
 const W = 2245, H = 3179, M = 96, CW = W - 2 * M;
 // brand green #67DEA4 for fills, a deeper green for readable accent text
 const C = { bg: "#F8F7F2", ink: "#101B2D", coral: "#67DEA4", deep: "#17915A", peach: "#E2F7EC", blush: "#D3F2E2",
@@ -145,6 +147,7 @@ T(`<span class="pill" style="background:${C.ink};color:#fff;font-weight:700;font
 
 window.LAYOUT = { W, H, hero, bPhotos, cPhotos, shapes };
 document.title = "ready";
+})();
 </script>
 </body>
 </html>

diff --git a/poster/build/build-editable.py b/poster/build/build-editable.py
@@ -1,0 +1,43 @@
+# Turns editable.json (from export-editable.js) into canva-editable.html:
+# every shape, photo frame, line and text is a separate element Canva can edit.
+import json
+d = json.load(open('editable.json')); L = d['L']
+def box(x, y, w, h, style, label=''):
+    return f'<div data-label="{label}" style="position:absolute;left:{x:.1f}px;top:{y:.1f}px;width:{w:.1f}px;height:{h:.1f}px;{style}"></div>'
+parts = []
+for s in L['shapes']:
+    r = '50%' if (s['w'] == s['h'] and s['r'] * 2 == s['w']) else f"{s['r']}px"
+    parts.append(box(s['x'], s['y'], s['w'], s['h'], f"background:{s['fill']};border-radius:{r}", s['name']))
+holes = [L['hero']] + L['bPhotos'] + L['cPhotos']
+names = ['Passfoto', 'Bewerbungsfoto', 'LinkedIn', 'Baby', 'Hochzeit', 'Familie', 'Business-Ambiente']
+for h in holes:  # white mat behind each photo
+    parts.append(box(h['x'] - 9, h['y'] - 9, h['w'] + 18, h['h'] + 18, f"background:#FFFFFF;border-radius:{h['r'] + 9}px", 'Rahmen'))
+for h, n in zip(holes, names):
+    parts.append(box(h['x'], h['y'], h['w'], h['h'], f"background:#B9B2A9;border-radius:{h['r']}px", 'Foto ' + n))
+hx, hy, hw, hh = L['hero']['x'], L['hero']['y'], L['hero']['w'], L['hero']['h']; hx2, hy2 = hx + hw, hy + hh
+g = 'background:#17915A;border-radius:2px'
+parts += [box(hx2 + 28.5, hy, 3, hh, g), box(hx2 + 20, hy - 1.5, 20, 3, g), box(hx2 + 20, hy2 - 1.5, 20, 3, g),
+          box(hx, hy2 + 24.5, hw, 3, g), box(hx - 1.5, hy2 + 16, 3, 20, g), box(hx2 - 1.5, hy2 + 16, 3, 20, g)]
+for it in d['items']:
+    if it['kind'] == 'box':
+        st = f"background:{it['bg']};border-radius:{it['radius']}"
+        if it['border']: st += f";border:{it['border']};box-sizing:border-box"
+        parts.append(box(it['x'], it['y'], it['w'], it['h'], st))
+for it in d['items']:
+    if it['kind'] != 'text': continue
+    s = it['style']; txt = it['html']
+    if s['textTransform'] == 'uppercase': txt = txt.upper()
+    pad = it['w'] * 0.08 + 8
+    st = (f"position:absolute;left:{it['x']:.1f}px;top:{it['y']:.1f}px;width:{it['w'] + pad:.1f}px;white-space:nowrap;"
+          f"font-family:{s['fontFamily']};font-size:{s['fontSize']};font-weight:{s['fontWeight']};font-style:{s['fontStyle']};"
+          f"color:{s['color']};letter-spacing:{s['letterSpacing']};line-height:{it['h']:.1f}px;margin:0")
+    parts.append(f'<div style="{st}">{txt}</div>')
+html = f'''<!DOCTYPE html>
+<html lang="de"><head><meta charset="utf-8"><title>Hegart Studio Poster A1 editierbar</title>
+<link href="https://fonts.googleapis.com/css2?family=Instrument+Serif:ital@0;1&family=Poppins:wght@400;700&display=swap" rel="stylesheet">
+<style>html,body{{margin:0}}.page{{position:relative;width:2245px;height:3179px;overflow:hidden;background:#F8F7F2}}</style>
+</head><body>
+<div class="page" data-document-role="page" data-label="Hegart Studio A1">
+{chr(10).join(parts)}
+</div></body></html>'''
+open('../canva-editable.html', 'w').write(html)
